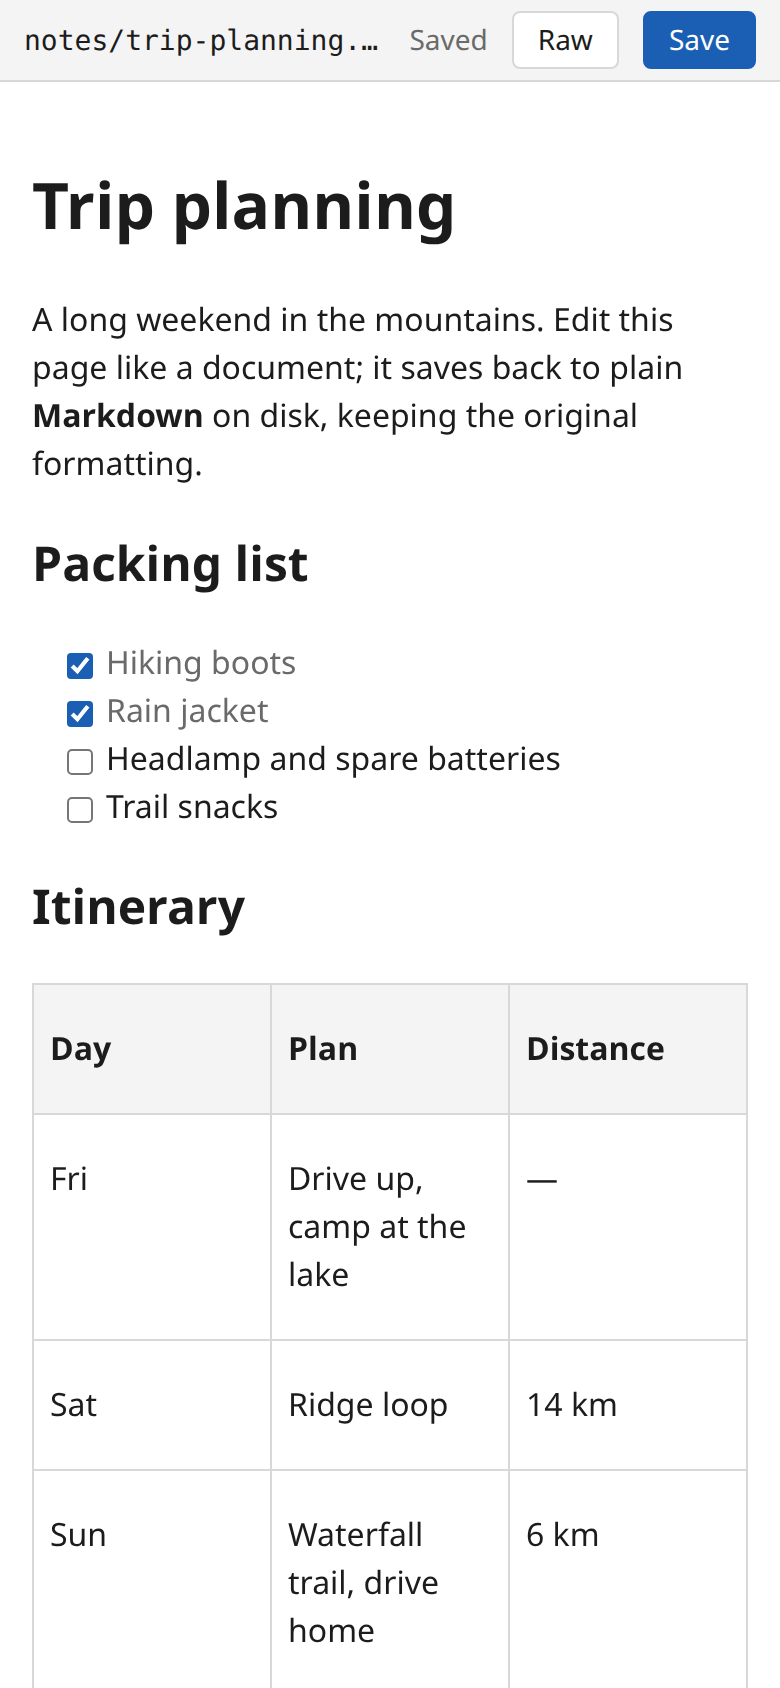
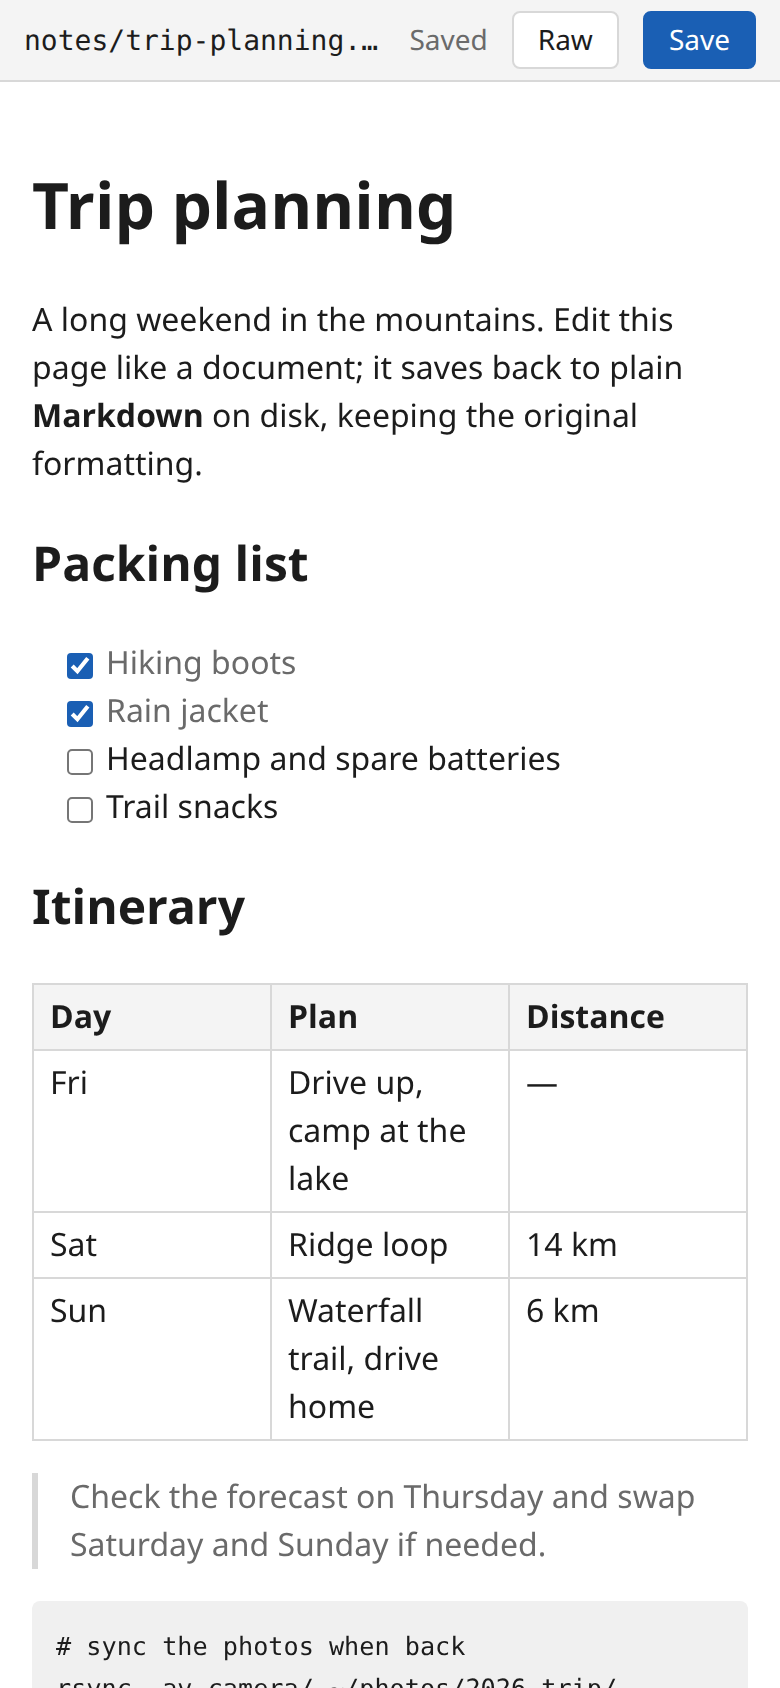
Remove paragraph margins inside table cells
Cells wrap their text in a <p>, so every row was as tall as a paragraph
with margins. Screenshots retaken.

diff --git a/internal/web/static/app.css b/internal/web/static/app.css
@@ -1,1 +1,1 @@
-.ProseMirror{position:relative}.ProseMirror{word-wrap:break-word;white-space:pre-wrap;white-space:break-spaces;-webkit-font-variant-ligatures:none;font-variant-ligatures:none;font-feature-settings:"liga" 0}.ProseMirror pre{white-space:pre-wrap}.ProseMirror li{position:relative}.ProseMirror-hideselection *::selection{background:transparent}.ProseMirror-hideselection *::-moz-selection{background:transparent}.ProseMirror-hideselection{caret-color:transparent}.ProseMirror [draggable][contenteditable=false]{user-select:text}.ProseMirror-selectednode{outline:2px solid #8cf}li.ProseMirror-selectednode{outline:none}li.ProseMirror-selectednode:after{content:"";position:absolute;inset:-2px -2px -2px -32px;border:2px solid #8cf;pointer-events:none}img.ProseMirror-separator{display:inline!important;border:none!important;margin:0!important}.ProseMirror .tableWrapper{overflow-x:auto}.ProseMirror table{border-collapse:collapse;table-layout:fixed;width:100%;overflow:hidden}.ProseMirror td,.ProseMirror th{vertical-align:top;box-sizing:border-box;position:relative}.ProseMirror td:not([data-colwidth]):not(.column-resize-dragging),.ProseMirror th:not([data-colwidth]):not(.column-resize-dragging){min-width:var(--default-cell-min-width)}.ProseMirror .column-resize-handle{position:absolute;right:-2px;top:0;bottom:0;width:4px;z-index:20;background-color:#adf;pointer-events:none}.ProseMirror.resize-cursor{cursor:ew-resize;cursor:col-resize}.ProseMirror .selectedCell:after{z-index:2;position:absolute;content:"";inset:0;background:#c8c8ff66;pointer-events:none}.ProseMirror-gapcursor{display:none;pointer-events:none;position:absolute}.ProseMirror-gapcursor:after{content:"";display:block;position:absolute;top:-2px;width:20px;border-top:1px solid black;animation:ProseMirror-cursor-blink 1.1s steps(2,start) infinite}@keyframes ProseMirror-cursor-blink{to{visibility:hidden}}.ProseMirror-focused .ProseMirror-gapcursor{display:block}:root{--bg: #ffffff;--fg: #1c1c1c;--muted: #6a6a6a;--border: #d8d8d8;--bar-bg: #f4f4f4;--accent: #1a5fb4;--accent-fg: #ffffff;--warn-bg: #fff4ce;--warn-fg: #5c4400;--error-bg: #fde3e1;--error-fg: #8a1f11;--code-bg: #f0f0f0;--font-ui: system-ui, -apple-system, "Segoe UI", sans-serif;--font-mono: ui-monospace, SFMono-Regular, Menlo, Consolas, monospace;--bar-height: 2.5rem;--content-width: 52rem;--path-min-width: 4rem;--task-outdent: 1.4em}@media(prefers-color-scheme:dark){:root{--bg: #161616;--fg: #e6e6e6;--muted: #9a9a9a;--border: #3a3a3a;--bar-bg: #222222;--accent: #62a0ea;--accent-fg: #0b0b0b;--warn-bg: #4a3a00;--warn-fg: #ffe28a;--error-bg: #5a1a14;--error-fg: #ffb3a7;--code-bg: #262626}}html,body{margin:0;height:100%;background:var(--bg);color:var(--fg);font-family:var(--font-ui)}body{display:flex;flex-direction:column}[hidden]{display:none!important}header{display:flex;align-items:center;gap:.75rem;min-height:var(--bar-height);padding:0 .75rem;background:var(--bar-bg);border-bottom:1px solid var(--border);font-size:.875rem;flex-wrap:wrap}#path{font-family:var(--font-mono);overflow:hidden;text-overflow:ellipsis;white-space:nowrap;min-width:var(--path-min-width);flex:1 1 0}#status{color:var(--muted)}#status[data-state=unsaved]{color:var(--warn-fg)}#status[data-state=conflict],#status[data-state=error]{color:var(--error-fg)}#note{color:var(--muted);font-style:italic}#note:empty{display:none}header a{color:var(--accent)}button{font:inherit;padding:.25rem .75rem;border:1px solid var(--border);border-radius:4px;background:var(--bg);color:var(--fg);cursor:pointer}button:disabled{opacity:.5;cursor:default}button.primary{background:var(--accent);color:var(--accent-fg);border-color:var(--accent)}button[aria-pressed=true]{background:var(--code-bg)}.banner{padding:.5rem .75rem;font-size:.875rem;display:flex;align-items:center;gap:.75rem;border-bottom:1px solid var(--border)}#conflict{background:var(--warn-bg);color:var(--warn-fg)}#error{background:var(--error-bg);color:var(--error-fg);white-space:pre-wrap}main{flex:1 1 auto;min-height:0;display:flex;flex-direction:column;overflow:auto}#editor{flex:1 1 auto;max-width:var(--content-width);width:100%;margin:0 auto;padding:1rem;box-sizing:border-box;line-height:1.5}#editor .ProseMirror{outline:none;min-height:100%}#raw{flex:1 1 auto;width:100%;box-sizing:border-box;margin:0;padding:1rem;border:0;resize:none;background:var(--bg);color:var(--fg);font-family:var(--font-mono);font-size:.875rem;line-height:1.5;tab-size:4}#raw:focus{outline:none}.ProseMirror pre{background:var(--code-bg);padding:.75rem;border-radius:4px;overflow-x:auto;font-family:var(--font-mono);font-size:.875rem}.ProseMirror code{font-family:var(--font-mono);font-size:.9em;background:var(--code-bg);padding:.1em .3em;border-radius:3px}.ProseMirror pre code{background:none;padding:0}.ProseMirror blockquote{margin:0;padding-left:1rem;border-left:3px solid var(--border);color:var(--muted)}.ProseMirror img{max-width:100%;height:auto}.ProseMirror a{color:var(--accent)}.ProseMirror hr{border:0;border-top:1px solid var(--border)}.ProseMirror table{border-collapse:collapse}.ProseMirror th,.ProseMirror td{border:1px solid var(--border);padding:.25rem .5rem}.ProseMirror th{background:var(--bar-bg)}.ProseMirror .md-html,.ProseMirror span[data-type=html]{font-family:var(--font-mono);font-size:.9em;background:var(--code-bg);color:var(--muted);white-space:pre-wrap;border-radius:3px;padding:0 .2em}.ProseMirror :is(ul,ol):not([data-spread=true])>li p{margin:0}.ProseMirror li[data-item-type=task]{list-style:none;margin-left:calc(-1 * var(--task-outdent));display:flex;align-items:baseline;gap:.4em}.ProseMirror li[data-item-type=task]>.md-task-checkbox{flex:none;user-select:none}.ProseMirror li[data-item-type=task]>.md-task-checkbox>input{margin:0;vertical-align:middle;cursor:pointer;accent-color:var(--accent, currentColor)}.ProseMirror li[data-item-type=task]>div{flex:1 1 auto;min-width:0}.ProseMirror li[data-item-type=task][data-checked=true]>div{color:var(--muted)}
+.ProseMirror{position:relative}.ProseMirror{word-wrap:break-word;white-space:pre-wrap;white-space:break-spaces;-webkit-font-variant-ligatures:none;font-variant-ligatures:none;font-feature-settings:"liga" 0}.ProseMirror pre{white-space:pre-wrap}.ProseMirror li{position:relative}.ProseMirror-hideselection *::selection{background:transparent}.ProseMirror-hideselection *::-moz-selection{background:transparent}.ProseMirror-hideselection{caret-color:transparent}.ProseMirror [draggable][contenteditable=false]{user-select:text}.ProseMirror-selectednode{outline:2px solid #8cf}li.ProseMirror-selectednode{outline:none}li.ProseMirror-selectednode:after{content:"";position:absolute;inset:-2px -2px -2px -32px;border:2px solid #8cf;pointer-events:none}img.ProseMirror-separator{display:inline!important;border:none!important;margin:0!important}.ProseMirror .tableWrapper{overflow-x:auto}.ProseMirror table{border-collapse:collapse;table-layout:fixed;width:100%;overflow:hidden}.ProseMirror td,.ProseMirror th{vertical-align:top;box-sizing:border-box;position:relative}.ProseMirror td:not([data-colwidth]):not(.column-resize-dragging),.ProseMirror th:not([data-colwidth]):not(.column-resize-dragging){min-width:var(--default-cell-min-width)}.ProseMirror .column-resize-handle{position:absolute;right:-2px;top:0;bottom:0;width:4px;z-index:20;background-color:#adf;pointer-events:none}.ProseMirror.resize-cursor{cursor:ew-resize;cursor:col-resize}.ProseMirror .selectedCell:after{z-index:2;position:absolute;content:"";inset:0;background:#c8c8ff66;pointer-events:none}.ProseMirror-gapcursor{display:none;pointer-events:none;position:absolute}.ProseMirror-gapcursor:after{content:"";display:block;position:absolute;top:-2px;width:20px;border-top:1px solid black;animation:ProseMirror-cursor-blink 1.1s steps(2,start) infinite}@keyframes ProseMirror-cursor-blink{to{visibility:hidden}}.ProseMirror-focused .ProseMirror-gapcursor{display:block}:root{--bg: #ffffff;--fg: #1c1c1c;--muted: #6a6a6a;--border: #d8d8d8;--bar-bg: #f4f4f4;--accent: #1a5fb4;--accent-fg: #ffffff;--warn-bg: #fff4ce;--warn-fg: #5c4400;--error-bg: #fde3e1;--error-fg: #8a1f11;--code-bg: #f0f0f0;--font-ui: system-ui, -apple-system, "Segoe UI", sans-serif;--font-mono: ui-monospace, SFMono-Regular, Menlo, Consolas, monospace;--bar-height: 2.5rem;--content-width: 52rem;--path-min-width: 4rem;--task-outdent: 1.4em}@media(prefers-color-scheme:dark){:root{--bg: #161616;--fg: #e6e6e6;--muted: #9a9a9a;--border: #3a3a3a;--bar-bg: #222222;--accent: #62a0ea;--accent-fg: #0b0b0b;--warn-bg: #4a3a00;--warn-fg: #ffe28a;--error-bg: #5a1a14;--error-fg: #ffb3a7;--code-bg: #262626}}html,body{margin:0;height:100%;background:var(--bg);color:var(--fg);font-family:var(--font-ui)}body{display:flex;flex-direction:column}[hidden]{display:none!important}header{display:flex;align-items:center;gap:.75rem;min-height:var(--bar-height);padding:0 .75rem;background:var(--bar-bg);border-bottom:1px solid var(--border);font-size:.875rem;flex-wrap:wrap}#path{font-family:var(--font-mono);overflow:hidden;text-overflow:ellipsis;white-space:nowrap;min-width:var(--path-min-width);flex:1 1 0}#status{color:var(--muted)}#status[data-state=unsaved]{color:var(--warn-fg)}#status[data-state=conflict],#status[data-state=error]{color:var(--error-fg)}#note{color:var(--muted);font-style:italic}#note:empty{display:none}header a{color:var(--accent)}button{font:inherit;padding:.25rem .75rem;border:1px solid var(--border);border-radius:4px;background:var(--bg);color:var(--fg);cursor:pointer}button:disabled{opacity:.5;cursor:default}button.primary{background:var(--accent);color:var(--accent-fg);border-color:var(--accent)}button[aria-pressed=true]{background:var(--code-bg)}.banner{padding:.5rem .75rem;font-size:.875rem;display:flex;align-items:center;gap:.75rem;border-bottom:1px solid var(--border)}#conflict{background:var(--warn-bg);color:var(--warn-fg)}#error{background:var(--error-bg);color:var(--error-fg);white-space:pre-wrap}main{flex:1 1 auto;min-height:0;display:flex;flex-direction:column;overflow:auto}#editor{flex:1 1 auto;max-width:var(--content-width);width:100%;margin:0 auto;padding:1rem;box-sizing:border-box;line-height:1.5}#editor .ProseMirror{outline:none;min-height:100%}#raw{flex:1 1 auto;width:100%;box-sizing:border-box;margin:0;padding:1rem;border:0;resize:none;background:var(--bg);color:var(--fg);font-family:var(--font-mono);font-size:.875rem;line-height:1.5;tab-size:4}#raw:focus{outline:none}.ProseMirror pre{background:var(--code-bg);padding:.75rem;border-radius:4px;overflow-x:auto;font-family:var(--font-mono);font-size:.875rem}.ProseMirror code{font-family:var(--font-mono);font-size:.9em;background:var(--code-bg);padding:.1em .3em;border-radius:3px}.ProseMirror pre code{background:none;padding:0}.ProseMirror blockquote{margin:0;padding-left:1rem;border-left:3px solid var(--border);color:var(--muted)}.ProseMirror img{max-width:100%;height:auto}.ProseMirror a{color:var(--accent)}.ProseMirror hr{border:0;border-top:1px solid var(--border)}.ProseMirror table{border-collapse:collapse}.ProseMirror th,.ProseMirror td{border:1px solid var(--border);padding:.25rem .5rem}.ProseMirror th{background:var(--bar-bg)}.ProseMirror :is(th,td) p{margin:0}.ProseMirror .md-html,.ProseMirror span[data-type=html]{font-family:var(--font-mono);font-size:.9em;background:var(--code-bg);color:var(--muted);white-space:pre-wrap;border-radius:3px;padding:0 .2em}.ProseMirror :is(ul,ol):not([data-spread=true])>li p{margin:0}.ProseMirror li[data-item-type=task]{list-style:none;margin-left:calc(-1 * var(--task-outdent));display:flex;align-items:baseline;gap:.4em}.ProseMirror li[data-item-type=task]>.md-task-checkbox{flex:none;user-select:none}.ProseMirror li[data-item-type=task]>.md-task-checkbox>input{margin:0;vertical-align:middle;cursor:pointer;accent-color:var(--accent, currentColor)}.ProseMirror li[data-item-type=task]>div{flex:1 1 auto;min-width:0}.ProseMirror li[data-item-type=task][data-checked=true]>div{color:var(--muted)}

diff --git a/web/src/app.css b/web/src/app.css
@@ -255,6 +255,12 @@ main {
   background: var(--bar-bg);
 }
 
+/* Table cells wrap their text in a <p> too; without this each row is as
+   tall as a paragraph with margins. */
+.ProseMirror :is(th, td) p {
+  margin: 0;
+}
+
 /* Raw HTML from the Markdown is shown as literal source, never rendered. */
 .ProseMirror .md-html,
 .ProseMirror span[data-type="html"] {

diff --git a/README.md b/README.md
@@ -8,7 +8,7 @@ editor.
 
 <p>
   <img src="docs/screenshot-desktop.png" alt="mdwebd editing a Markdown note with a task list, table and code block in a desktop browser" width="640">
-  <img src="docs/screenshot-mobile.png" alt="The same note in mdwebd on a phone-sized screen" width="208">
+  <img src="docs/screenshot-mobile.png" alt="The same note in mdwebd on a phone-sized screen" width="176">
 </p>
 
 ## Security posture
